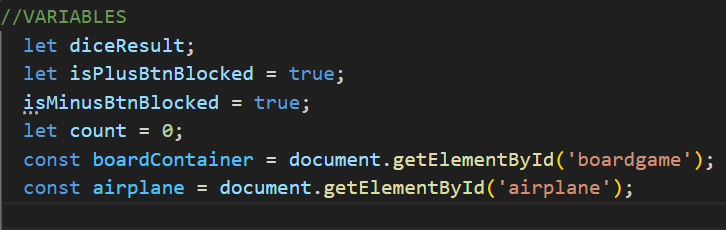
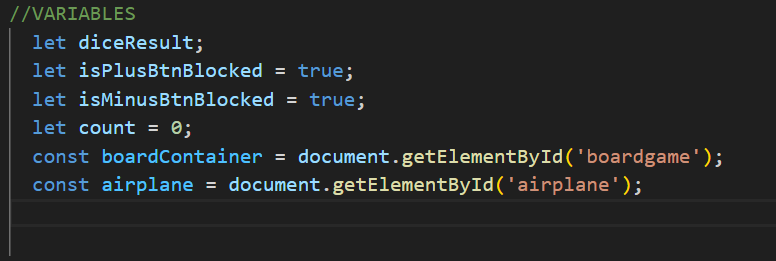
progetto finito

Changed region(s): [[0.0, 0.0304, 1.0, 1.0]]

diff --git a/assets/js/script.js b/assets/js/script.js
@@ -91,7 +91,7 @@ document.body.append(footer);
 //VARIABLES
   let diceResult;
   let isPlusBtnBlocked = true;
-  isMinusBtnBlocked = true;
+  let isMinusBtnBlocked = true;
   let count = 0;
   const boardContainer = document.getElementById('boardgame');
   const airplane = document.getElementById('airplane');
@@ -99,17 +99,20 @@ document.body.append(footer);
 
 //FUNCTIONS
 function rollDice() {
-  isPlusBtnBlocked = false;
-  diceContainer.appendChild(diceImg);
-  diceContainer.appendChild(resultParagraph);
+    isPlusBtnBlocked = false;
+    diceContainer.appendChild(diceImg);
+    diceContainer.appendChild(resultParagraph);
+  
+    const value = Math.floor(Math.random() * 6) + 1;
+    diceResult = value;
+    diceImg.src = `assets/img/dice-img/Dice-${diceResult}.png`;
+    diceImg.style.display = 'block';
+    resultParagraph.textContent = `Move your airplane by ${diceResult}`;
+    incrementDisplay.innerHTML = '+' + diceResult;
+    btnContainer.appendChild(incrementDisplay);
+    isRollDiceBtnBlocked = true;
+  
 
-  const value = Math.floor(Math.random() * 6) + 1;
-  diceResult = value;
-  diceImg.src = `assets/img/dice-img/Dice-${diceResult}.png`;
-  diceImg.style.display = 'block';
-  resultParagraph.textContent = `Move your airplane by ${diceResult}`;
-  incrementDisplay.innerHTML = '+' + diceResult;
-  btnContainer.appendChild(incrementDisplay);
 }
 
 function plusCounter() {
@@ -131,7 +134,7 @@ function plusCounter() {
       const nextFlag = document.getElementById(`flag-${count}`).nextElementSibling;
       nextFlag.appendChild(airplane);
 
-      msg(incrementDisplayValue, incrementDisplayValue, incrementDisplay);
+      msg(incrementDisplayValue, incrementDisplay);
       
       if(count === 29) {                
         Swal.fire({
@@ -192,7 +195,7 @@ function reset() {
   isMinusBtnBlocked = true;
 }
 
-function msg(incrementDisplayValue,incrementDisplayValue, incrementDisplay) {
+function msg(incrementDisplayValue, incrementDisplay) {
   if(incrementDisplayValue === 0) {
     generateProbability(incrementDisplayValue, incrementDisplay);
   }

diff --git a/README.md b/README.md
@@ -8,7 +8,7 @@ This is the final project for [start2impact](https://www.start2impact.it/) cours
 <br><br>
 
 <a href="https://counterjourney.netlify.app/">✈ PLAY COUNTER JOURNEY</a><br><br>
-<a href="">📜 READ PRESENTATION </a>
+<a href="https://drive.google.com/drive/folders/1ZN4UUFvIvNjvkbN0f4iDAsKF9_qsFUGm?hl=it">📜 READ PRESENTATION (ITA)</a>
 
 ## GAMEPLAY
 
@@ -53,4 +53,12 @@ Surprises are an integral part of the adventure, with positive and negative unfo
 [![Linkedin](https://skillicons.dev/icons?i=linkedin)](https://www.instagram.com/fabioo_pueblo/) 
 [![Github](https://skillicons.dev/icons?i=github)](https://github.com/FabioTedesco?tab=repositories)
 
+## Acknowledgments
+
+[sweetalert2](https://sweetalert2.github.io/)
+
 <p align="right">(<a href="#readme-top">back to top</a>)</p>
+
+
+
+[def]: https://sweetalert2.github.io/
